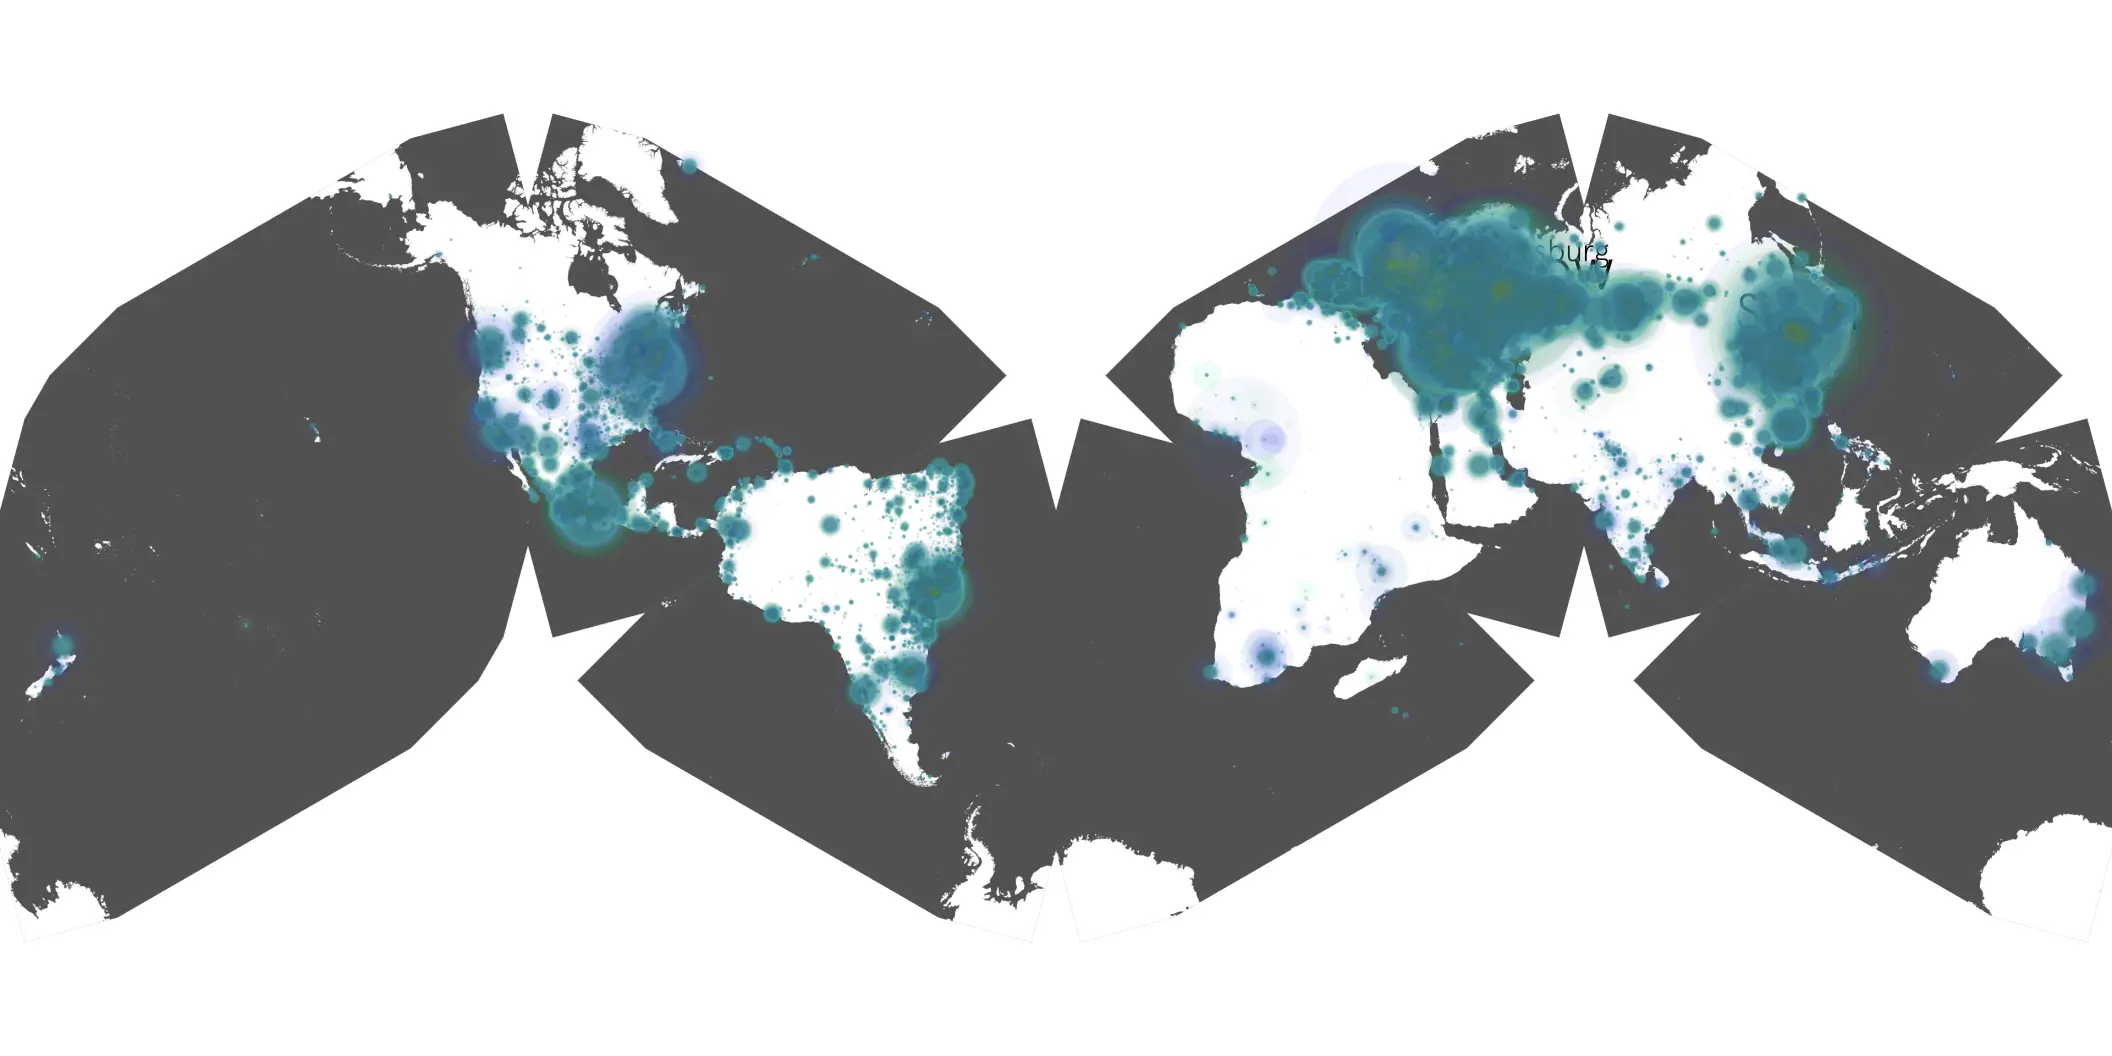
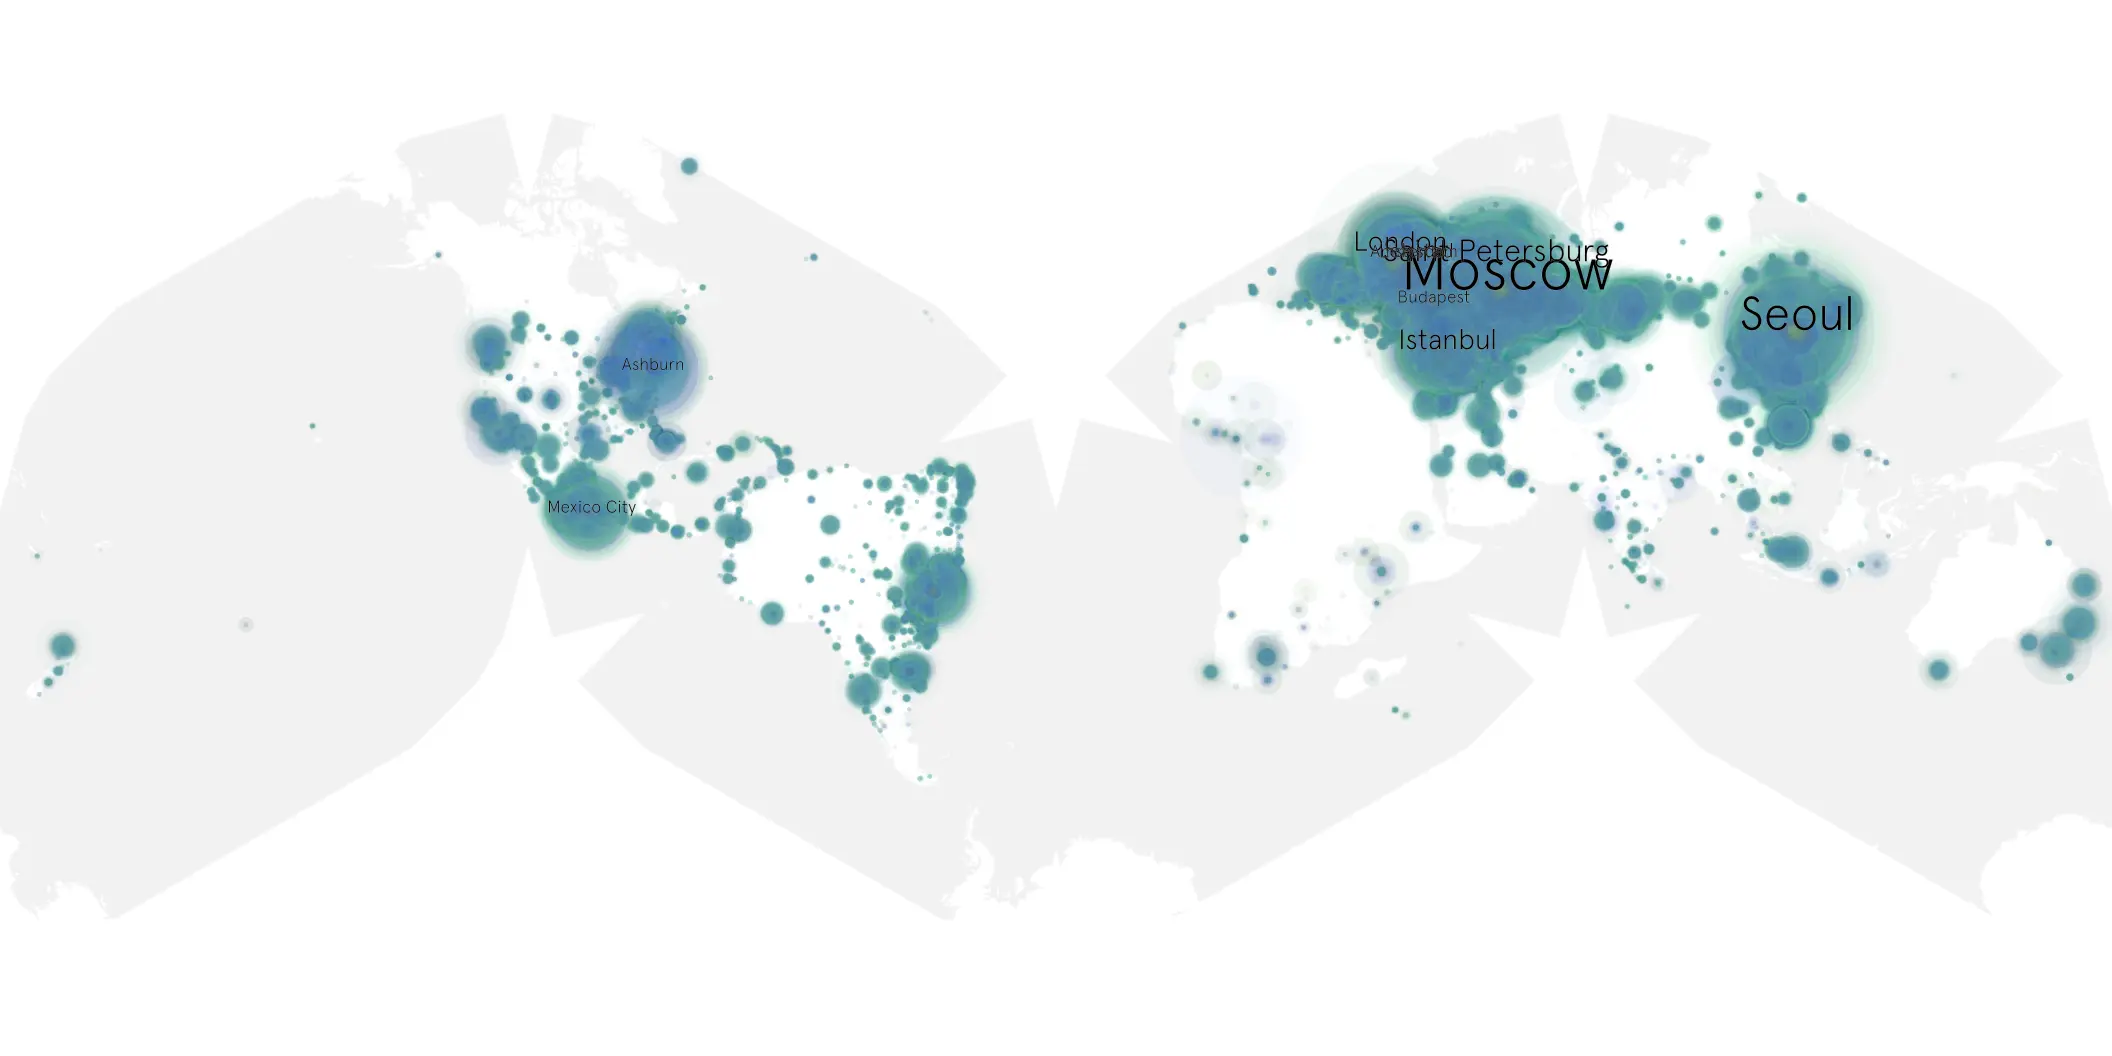
Apply baseline v2 to for-all-mankind-410

diff --git a/docs/itemized/for-all-mankind-410-sample-cache-audit.md b/docs/itemized/for-all-mankind-410-sample-cache-audit.md
@@ -14,9 +14,9 @@ description: "Cache coverage and visualization audit for one media object."
 | Media object | For All Mankind |
 | Collection key | `for-all-mankind-410` |
 | imdb_id | [tt7772588](https://www.imdb.com/title/tt7772588/) |
-| wikipedia_url | UNAVAILABLE |
+| wikipedia_url | [For All Mankind (TV series)](https://en.wikipedia.org/wiki/For_All_Mankind_(TV_series)) |
 | Sample dates | 2024-01-12-to-2024-04-25 |
-| Sample days | 105 (2024–2024) |
+| Sample days | 105 |
 | BTIH count | 127 |
 | Unique BTIH count | 117 |
 | Downloaders total | 7,588,744 |
@@ -24,7 +24,7 @@ description: "Cache coverage and visualization audit for one media object."
 | Data version | `2026-08-05` |
 | IP geolocation version | `6:1777968300` |
 
-## 2. Cache coverage report
+## 2. Sample coverage report
 
 - Generated: 2026-08-28T17:48:33Z
 - Sample archive directory: `/run/media/bkoz/gold/src/alpha60-samples-raw.gold/for-all-mankind-410.xz`
@@ -39,7 +39,7 @@ description: "Cache coverage and visualization audit for one media object."
 - hourly gap: last `2024-02-16 19:03`, resumed `2024-02-17 09:00` — missing 12 hour(s)
 - hourly gap: last `2024-03-31 01:00`, resumed `2024-03-31 03:00` — missing 1 hour(s)
 
-## 3. Collection size histogram
+## 3. Media objects file size histogram
 
 ![For All Mankind collection size histogram](figures/for-all-mankind-410-cumulative-detail-btiha-itemized-by-bytes.svg)
 
@@ -47,7 +47,20 @@ description: "Cache coverage and visualization audit for one media object."
 
 ### Downloads by week cumulative (normalized start)
 
-![for-all-mankind-410 downloads by week](figures/for-all-mankind-410-downloads-by-week-for-all-mankind-410-week.svg)
+<script type="text/javascript" crossorigin="anonymous" id="graph-hover"
+	src="../../resources/izzi-graph-hover-txt-polyline-red.js">
+</script>
+
+<div class="media-object-audit-week-graph" style="max-width: 100%;">
+{% include_relative figures/for-all-mankind-410-downloads-by-week-for-all-mankind-410-week.svg %}
+</div>
+<style>
+.media-object-audit-week-graph svg {
+  display: block;
+  width: 100%;
+  height: auto;
+}
+</style>
 
 ### Downloads by day, Saturday and Sunday in gray
 
@@ -55,7 +68,7 @@ description: "Cache coverage and visualization audit for one media object."
 
 ## 5. Visualization pass — maps
 
-### Continental downloader slices
+### Cumulative geographic slices
 
 | Africa | Americas | Asia | Europe | Oceania | Unknown |
 | --- | --- | --- | --- | --- | --- |
@@ -69,8 +82,8 @@ description: "Cache coverage and visualization audit for one media object."
 
 **Cumulative >= 1080p**
 
-![Cumulative >= 1080p](figures/for-all-mankind-410-data-ge-1080p.webp)
+[![Cumulative >= 1080p](figures/for-all-mankind-410-data-ge-1080p.webp)](figures/for-all-mankind-410-data-ge-1080p-4k.webp){:target="_blank" rel="noopener"}
 
 **Cumulative < 1080p**
 
-![Cumulative < 1080p](figures/for-all-mankind-410-data-lt-1080p.webp)
+[![Cumulative < 1080p](figures/for-all-mankind-410-data-lt-1080p.webp)](figures/for-all-mankind-410-data-lt-1080p-4k.webp){:target="_blank" rel="noopener"}
